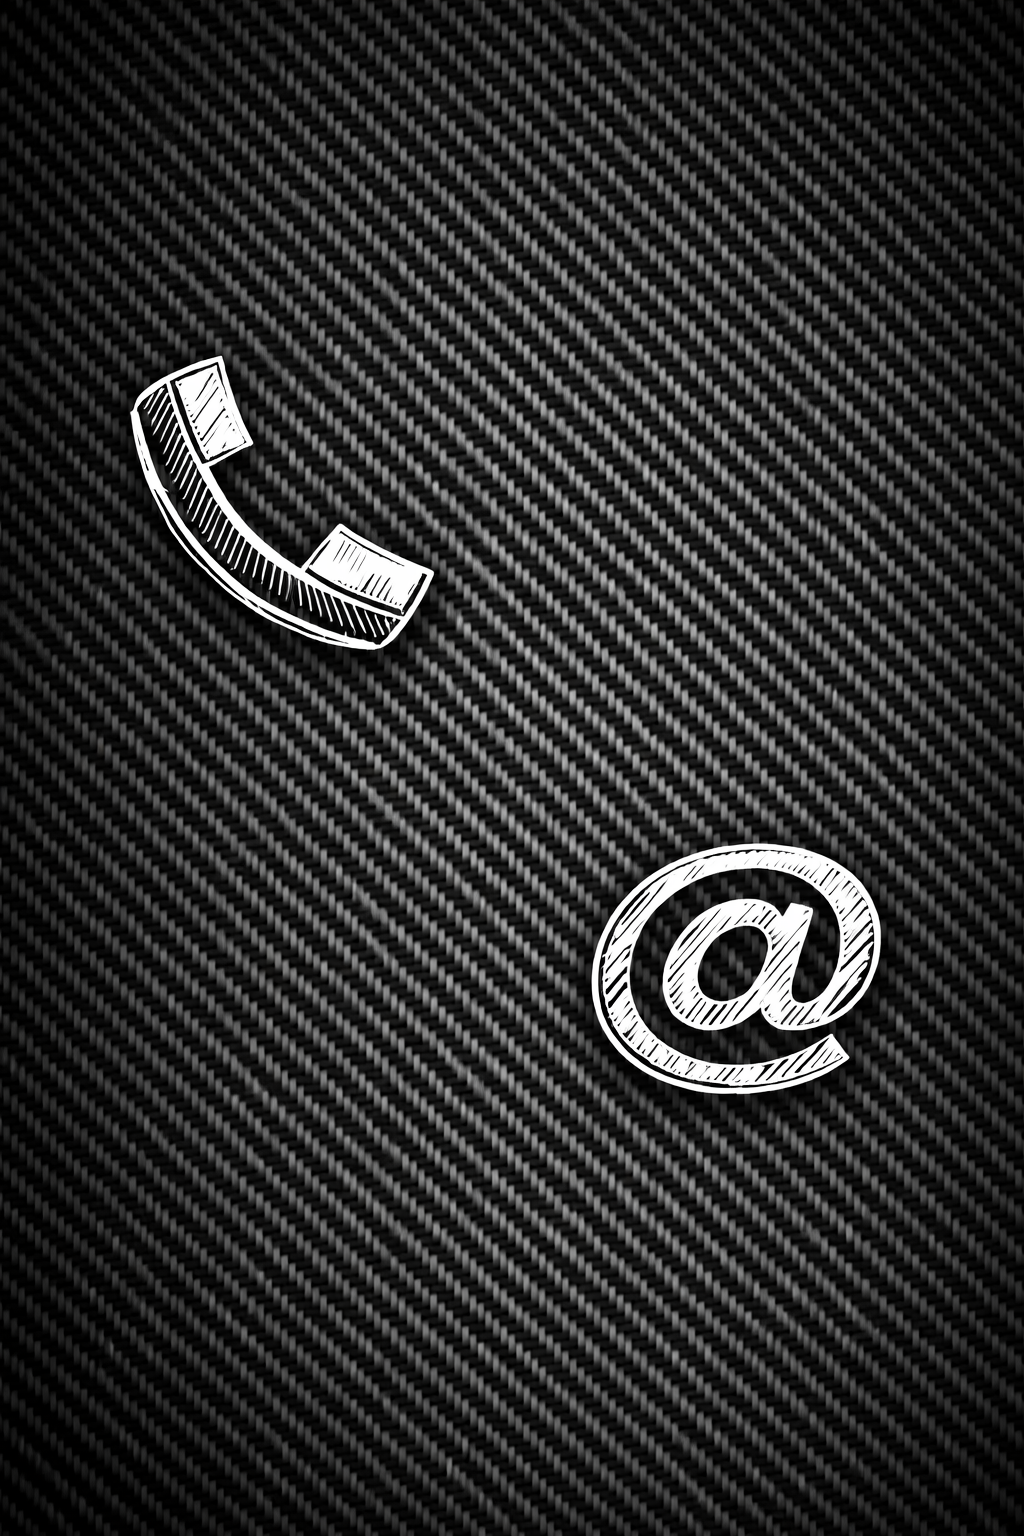
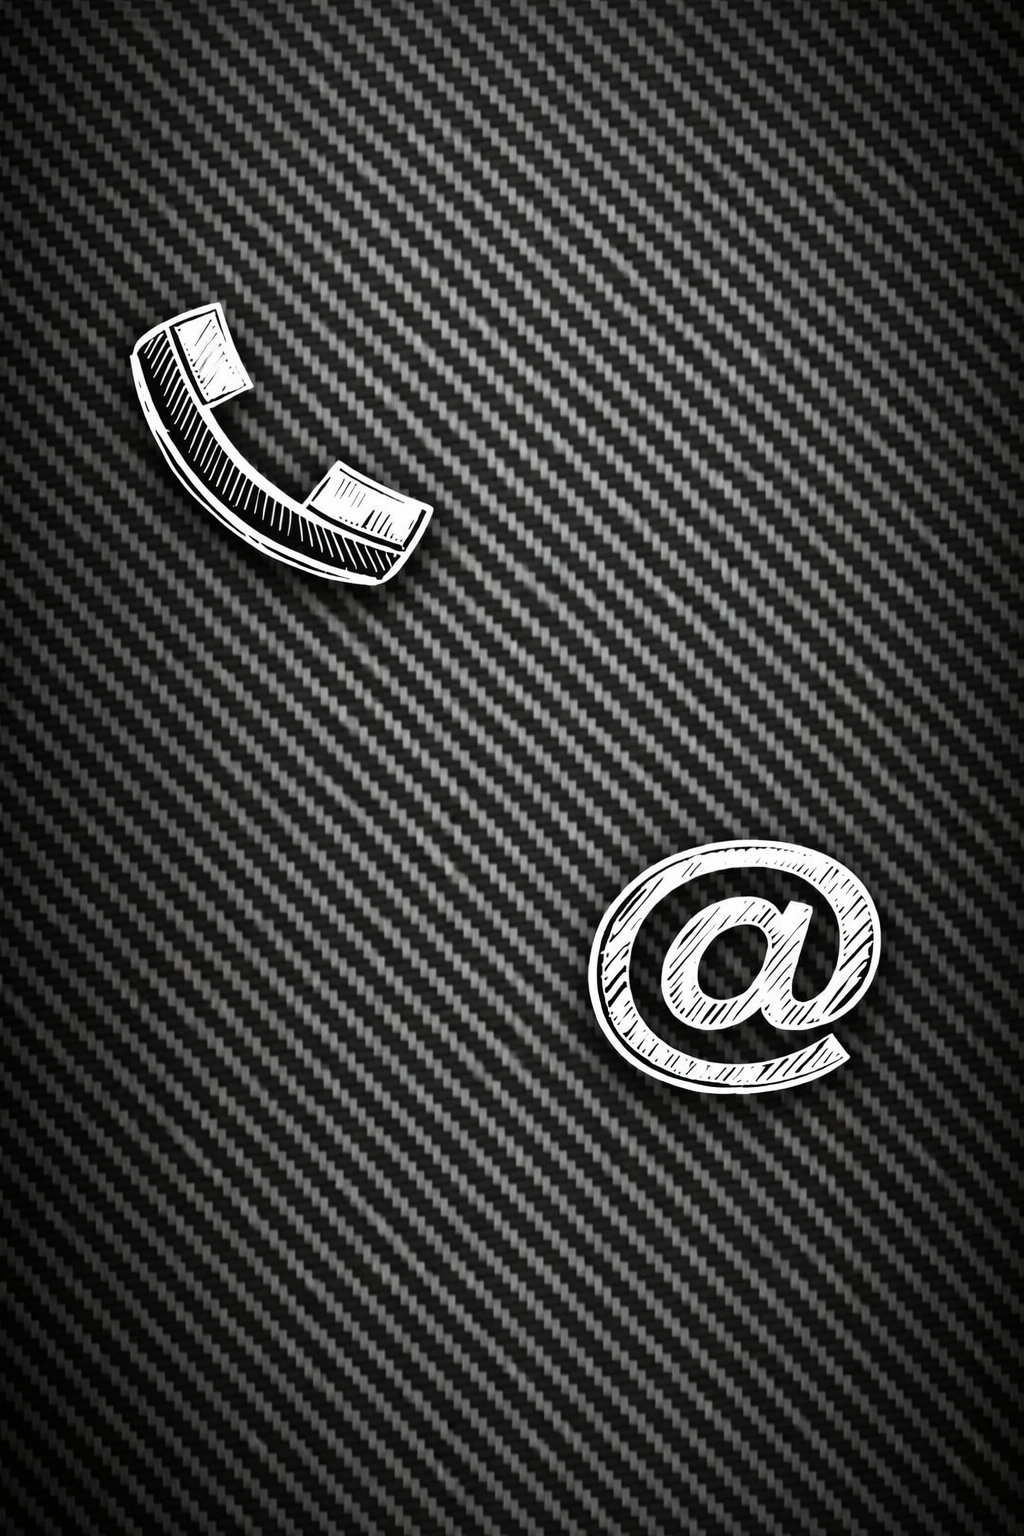
fix: made new photos for contacts and for style.

diff --git a/src/css/home.css b/src/css/home.css
@@ -35,8 +35,10 @@
 
 .left-photo-canvas {
     position: absolute;
-    top: 0; left: 0;
-    width: 100%; height: 100%;
+    top: 0;
+    left: 0;
+    width: 100%;
+    height: 100%;
     z-index: 2;
     transition: opacity 0.5s ease;
     pointer-events: none;
@@ -200,7 +202,8 @@
     position: absolute;
     top: 50%;
     transform: translateY(-50%);
-    left: 0; right: 0;
+    left: 0;
+    right: 0;
     display: flex;
     justify-content: center;
     margin: auto 150px;
@@ -223,17 +226,18 @@
     align-items: center;
     gap: 10px;
     color: #ffffff;
-    font-size: 24px;
+    font-size: 32px;
     width: 100%;
-    backdrop-filter: blur(10px);
+    box-sizing: border-box;
+    backdrop-filter: blur(100px);
     border: 1px solid #ffffff;
     border-radius: 200px;
     padding: 10px 20px;
 }
 
 .contact-item svg {
-    width: 25px;
-    height: 25px;
+    width: 30px;
+    height: 30px;
     fill: #ffffff;
 }
 
@@ -260,8 +264,10 @@
 
 .spoiler-canvas {
     position: absolute;
-    top: 0; left: 0;
-    width: 100%; height: 100%;
+    top: 0;
+    left: 0;
+    width: 100%;
+    height: 100%;
     background-color: transparent;
     z-index: 1;
     transition: opacity 0.3s ease;

diff --git a/src/components/Footer.tsx b/src/components/Footer.tsx
@@ -21,16 +21,17 @@ const Footer = () => {
 
     return (
         <div className="foot">
-            <div className="theme-toggle" onClick={() => setIsDark(d => !d)}>
-                <span className="material-icons theme-icon sun-icon">dark_mode</span>
-                <span className="material-icons theme-icon moon-icon">light_mode</span>
-            </div>
             <div
                 className={`scroll-to-top${showScroll ? ' visible' : ''}`}
                 onClick={() => window.scrollTo({top: 0, behavior: 'smooth'})}
             >
                 <span className="material-icons">arrow_upward</span>
             </div>
+            <div className="theme-toggle" onClick={() => setIsDark(d => !d)}>
+                <span className="material-icons theme-icon sun-icon">dark_mode</span>
+                <span className="material-icons theme-icon moon-icon">light_mode</span>
+            </div>
+
         </div>
     )
 }

diff --git a/index.html b/index.html
@@ -5,7 +5,7 @@
     <meta name="viewport" content="width=device-width, initial-scale=1.0, user-scalable=no">
     <title>Резюме</title>
     <link rel="stylesheet" href="src/css/home.css">
-    <link rel="icon" href="assets/images/iconx.png" type="image/png">
+    <link rel="icon" href="/images/iconx.png" type="image/png">
     <link rel="preconnect" href="https://fonts.googleapis.com">
     <link rel="preconnect" href="https://fonts.gstatic.com" crossorigin>
     <link href="https://fonts.googleapis.com/css2?family=Jura:wght@300..700&display=swap" rel="stylesheet">

diff --git a/src/components/Spoiler.tsx b/src/components/Spoiler.tsx
@@ -26,7 +26,7 @@ const Spoiler = ({children}: Props) => {
         resize()
         window.addEventListener('resize', resize)
 
-        const balls: Ball[] = Array.from({length: 200}, () => ({
+        const balls: Ball[] = Array.from({length: 300}, () => ({
             x: Math.random() * canvas.width,
             y: Math.random() * canvas.height,
             r: Math.random() * 1.5 + 0.5,

diff --git a/src/css/global.css b/src/css/global.css
@@ -94,7 +94,7 @@ header {
     z-index: 999;
     position: fixed;
     bottom: 20px;
-    left: 20px;
+    right: 20px;
     display: flex;
     flex-direction: row;
     align-items: center;
